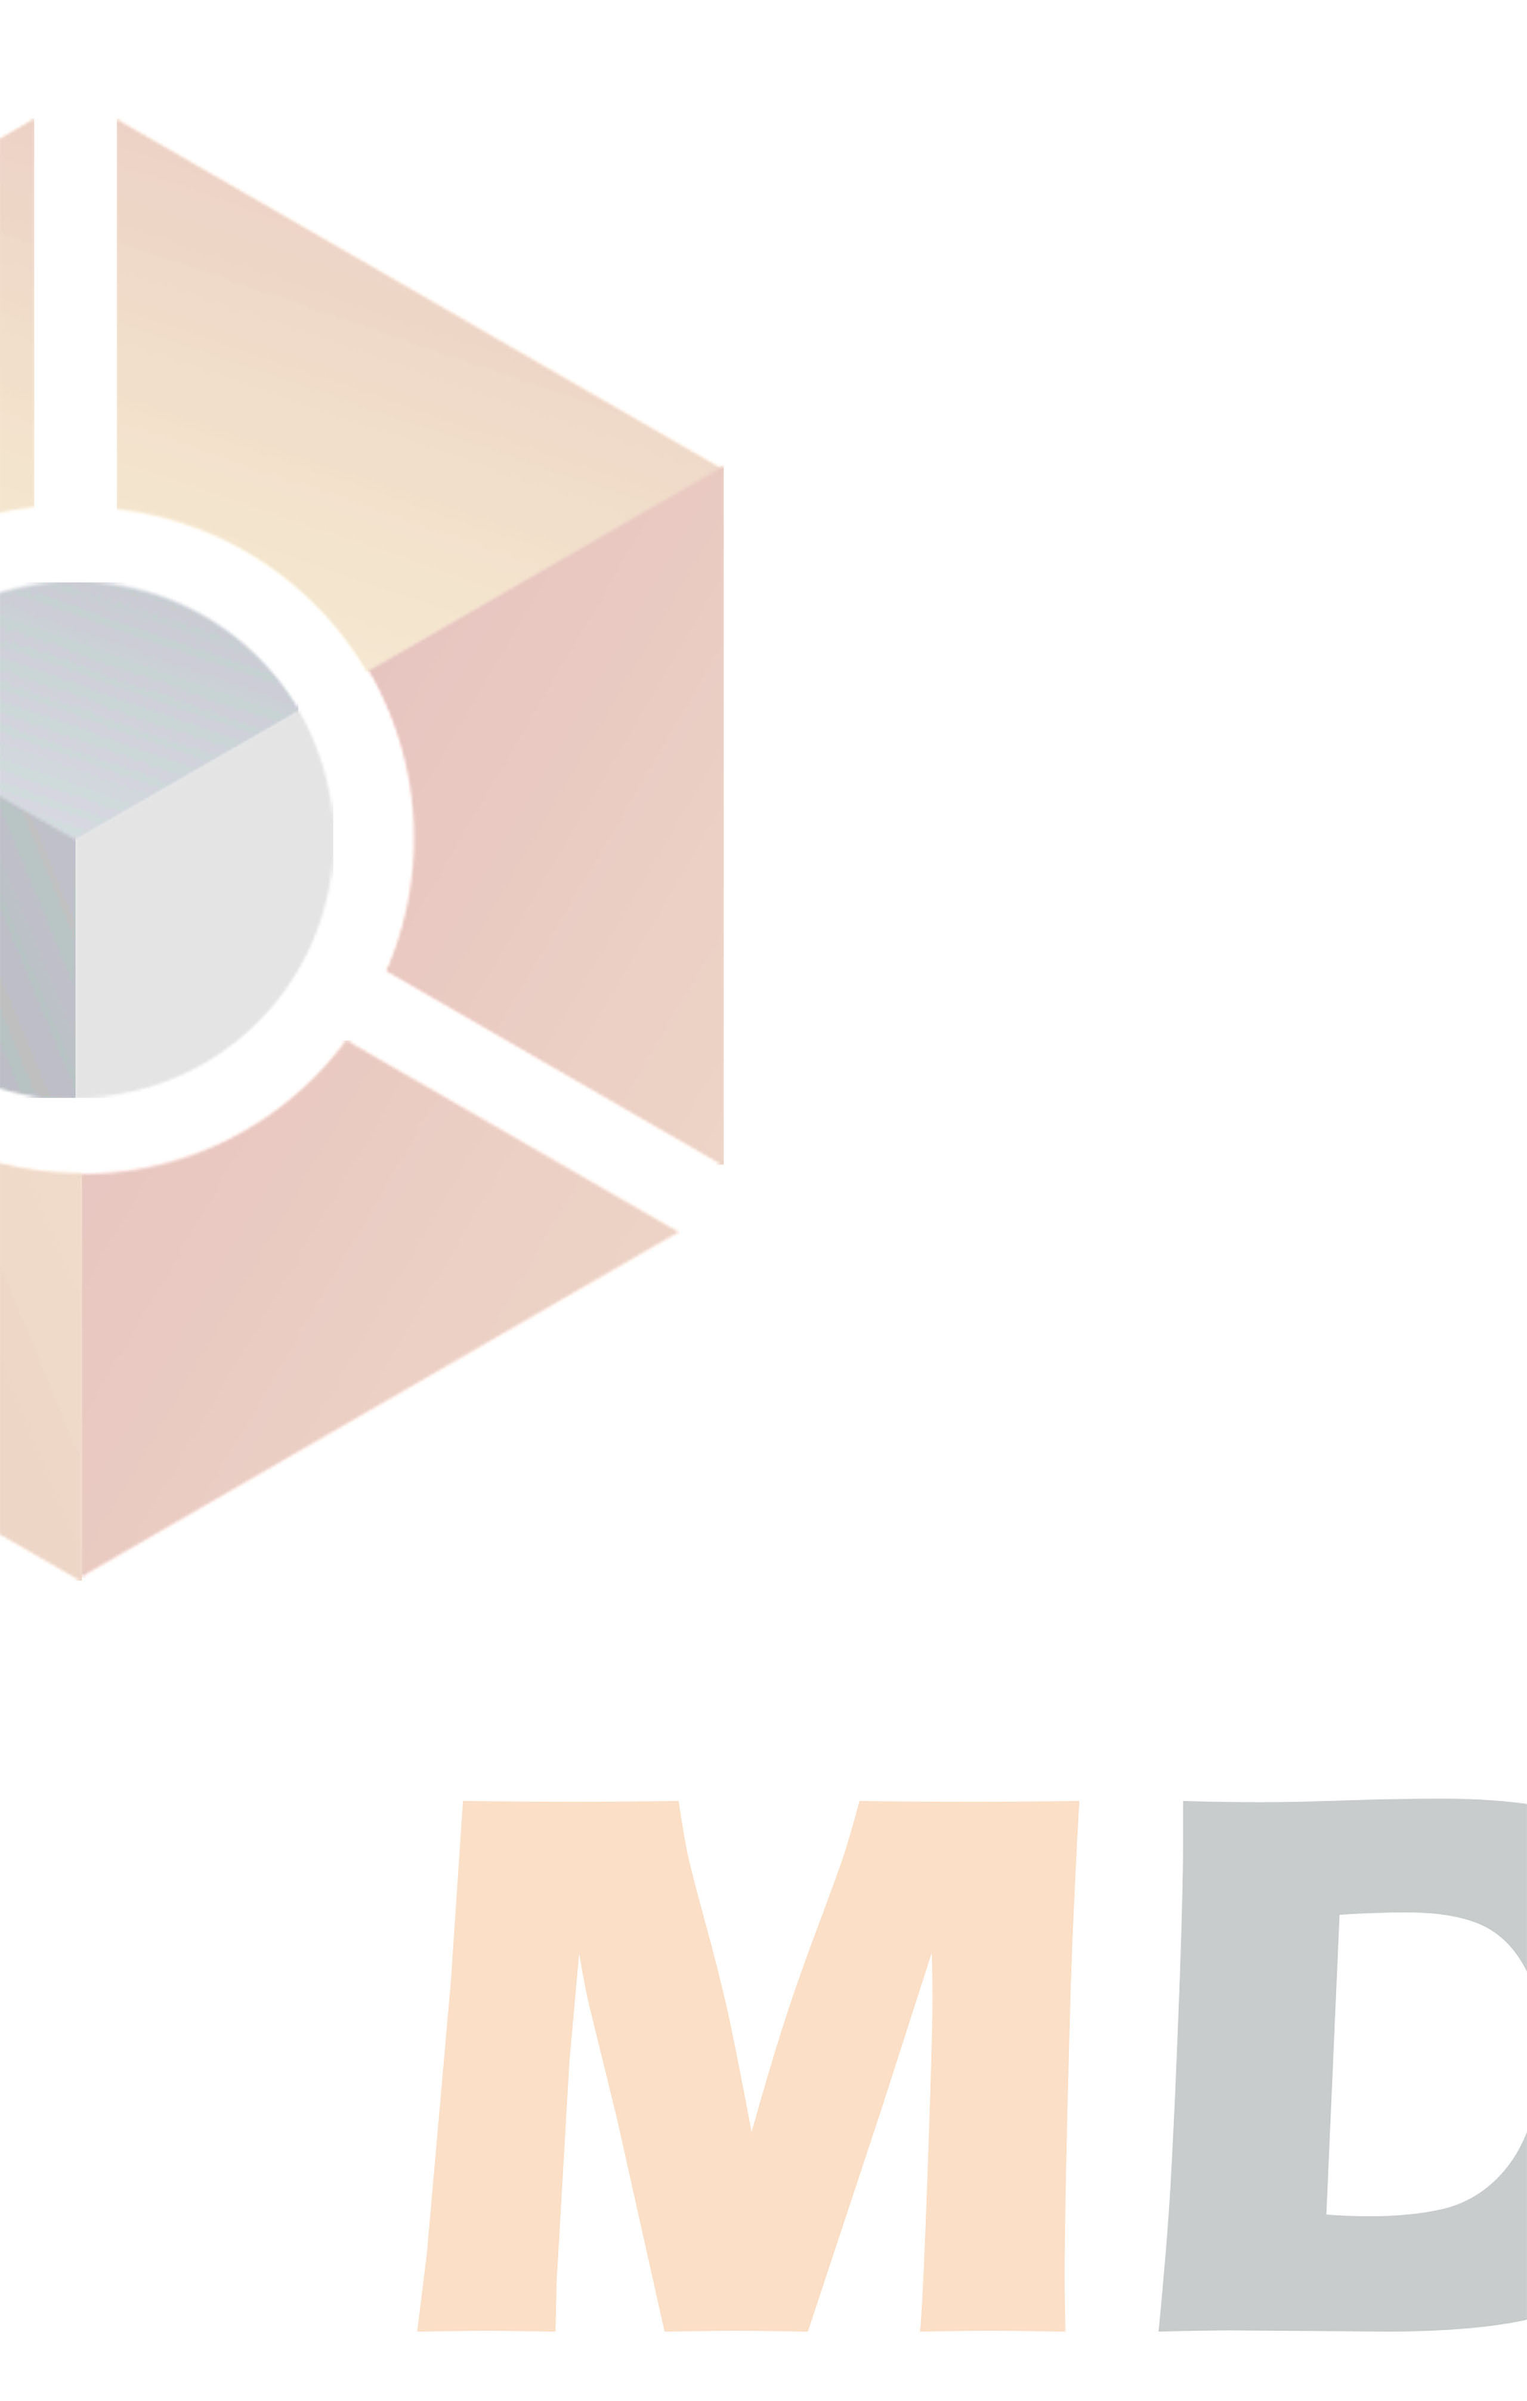
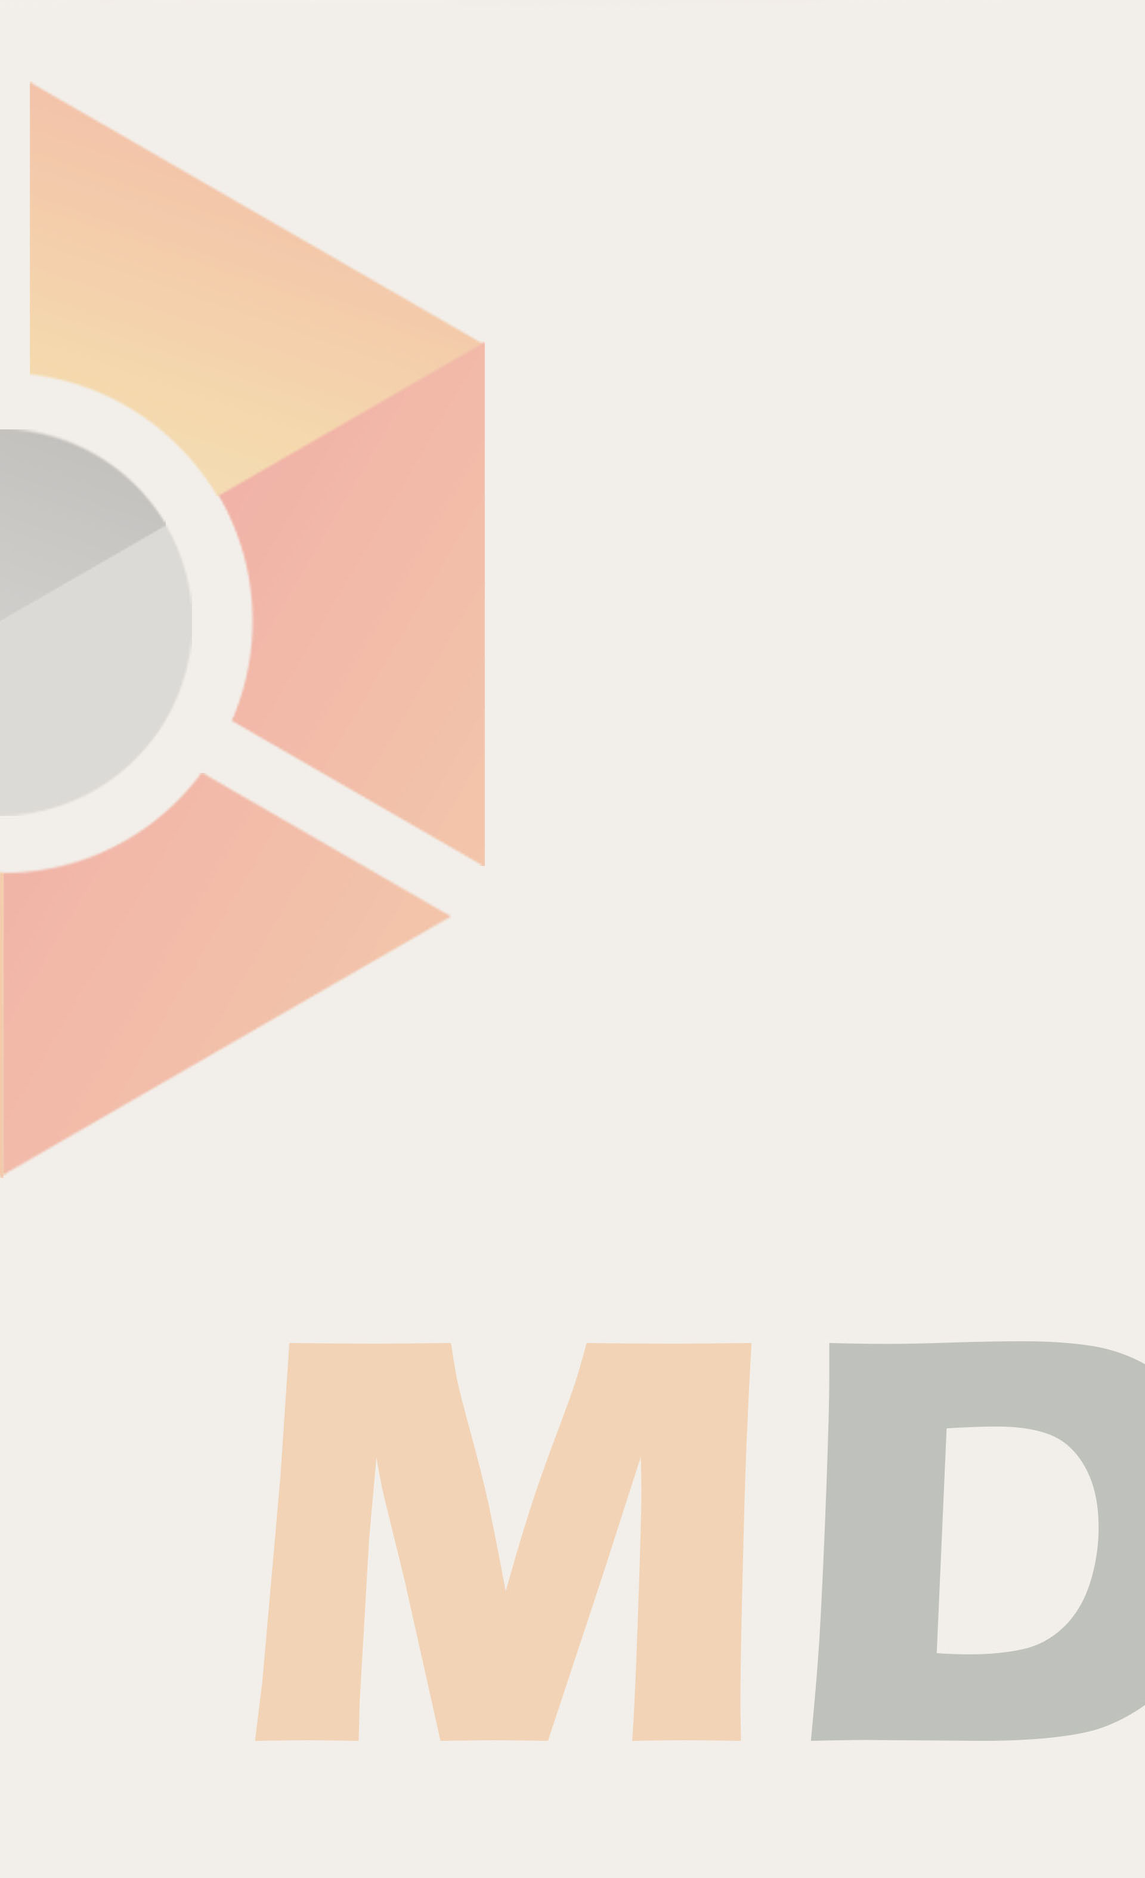
changed background color

Changed region(s): [[0.0, 0.0311, 0.5, 0.6535], [0.2188, 0.7158, 1.0, 0.9959]]

diff --git a/src/components/app.css b/src/components/app.css
@@ -8,7 +8,8 @@
 }
 .section1 {
 	background: var(--light);
-	background: url(../assets/images/bg_xl.jpg) no-repeat 100% 0;
+	background: url(../assets/images/bg3.jpg) no-repeat 100% 0;
+	background-size: cover;
 	height: 800px;
 	display: flex;
 	flex-direction: column;

diff --git a/src/components/faq/index.jsx b/src/components/faq/index.jsx
@@ -30,7 +30,8 @@ export default class Faq extends Component{
 
 	render(){
 		return(
-			<div className="container">
+			<div className="faq">
+				<h1>Frequently asked Questions</h1>
 				<div className="faq-container">
 					{ this.list() }
 				</div>

diff --git a/src/components/app.jsx b/src/components/app.jsx
@@ -1,7 +1,5 @@
 import React, { Component } from 'react';
 import './app.css';
-import Router from './router';
-import Toolbar from './toolbar';
 import Footer from './footer';
 import Home from './home';
 import Cardslist from './cardsList';

diff --git a/src/components/faq/faq.css b/src/components/faq/faq.css
@@ -42,3 +42,10 @@
 	padding-left: 10px;
 	padding-right: 10px;
 }
+.faq {
+	display: flex;
+	flex-direction: column;
+	justify-content: center;
+	align-items: center;
+	color: var(--default);
+}

diff --git a/src/components/footer/index.jsx b/src/components/footer/index.jsx
@@ -1,5 +1,4 @@
 import React, {Component} from 'react';
-import {Link} from 'react-router-dom';
 import './footer.css';
 
 export default class Footer extends Component{

diff --git a/src/index.css b/src/index.css
@@ -16,6 +16,7 @@ body {
 	line-height: 1.6;
 	margin: 0;
 	min-height: 100vh;
+	background-color: #f2efea;
 }
 :root {
 	--default:			#405152;
